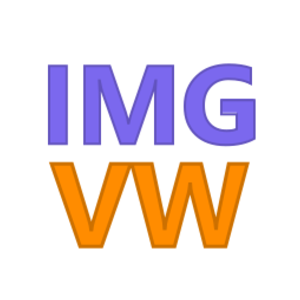
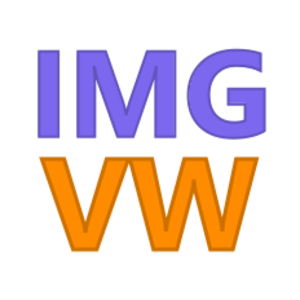
Prepare v1.12.1 release

Changed region(s): [[0.12, 0.15, 0.9, 0.84]]

diff --git a/packaging/store/README.md b/packaging/store/README.md
@@ -36,8 +36,9 @@ requires signing it with a certificate whose subject matches `Publisher`.
 The Store package supports Windows 10 version 1809 (build 17763) and later. This packaging-only minimum does not alter
 the portable executable's Windows XP compatibility target.
 
-`Assets/` includes target-size `unplated` and `lightunplated` variants of `Square44x44Logo.png`. Windows resolves these
-qualified resources automatically for Start and taskbar surfaces; keep the transparent variants in sync with
+`Assets/` includes the complete target-size family for `Square44x44Logo.png`: 16, 20, 24, 30, 32, 36, 40, 48, 60,
+64, 72, 80, 96, and 256 pixels, each with default, `unplated`, and `lightunplated` variants. Windows resolves these
+qualified resources automatically for Start and taskbar surfaces; keep all transparent variants in sync with
 `resources/ImgVw.svg` when changing the application icon.
 
 ## Submission metadata

diff --git a/docs/store_listing_en-us.md b/docs/store_listing_en-us.md
@@ -40,9 +40,9 @@ A small, fast, offline image viewer for browsing local images, folders, and slid
 ## What's new in this version
 
 ```text
-The information overlay now shows an image's intrinsic dimensions and source file size after loading. Microsoft Store
-packages also include complete unplated icon variants for clearer Start and taskbar presentation on light and dark
-themes.
+Microsoft Store packages now include the complete AppList icon family for clearer transparent icons across Start,
+Search, and taskbar surfaces at every supported display scale. Store and AppList icon artwork is also larger and
+vertically centered within its transparent canvas.
 ```
 
 ## Product features

diff --git a/CHANGELOG.md b/CHANGELOG.md
@@ -1,3 +1,9 @@
+## 1.12.1 (2026-07-30)
+
+- Complete the MSIX AppList icon family for reliable transparent icons across Windows shell surfaces and display scales
+- Reduce and vertically balance the transparent padding around Store and AppList icon artwork
+- Fix new-release detection in the GitHub release helper when run with Windows PowerShell
+
 ## 1.12.0 (2026-07-28)
 
 - Show intrinsic image dimensions and source file size in the information overlay
